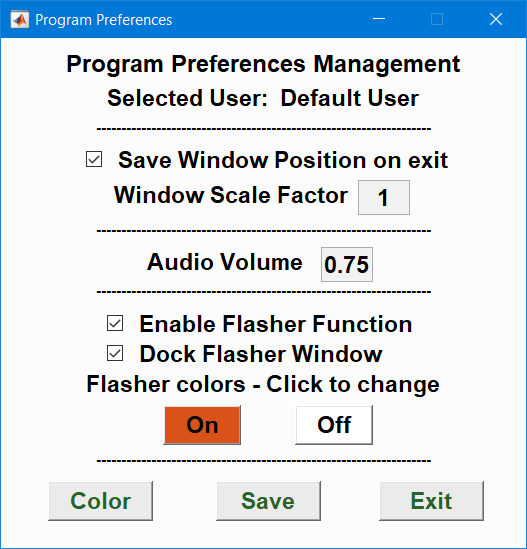
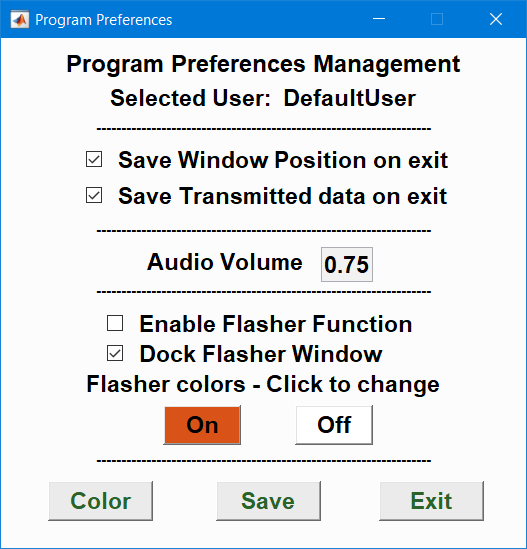
Updated help with latest program changes

Changed region(s): [[0.1822, 0.1548, 0.7894, 0.2168], [0.1518, 0.3406, 0.8501, 0.3716]]

diff --git a/MorseHelp/MorseHelp.html b/MorseHelp/MorseHelp.html
@@ -174,7 +174,10 @@
             </p>
         <ul>
             <li>
-                Windows - There is a checkbox to select 'Save Window Position on Exit'. The default is checked. Once you like the position of windows and have saved those windows, then those windows will reopen at that position. If desired, after windows are positioned to your liking, the box can be unchecked to prevent further changes. The 'Scale Factor' is set to 1 by default. It is currently not used.
+                Windows - There is a checkbox to select 'Save Window Position on Exit'. The default is checked. Once you like the position of windows and have saved those windows, then those windows will reopen at that position. If desired, after windows are positioned to your liking, the box can be unchecked to prevent further changes.
+            </li>
+            <li>
+                Transmitted Data - There is a checkbox to select 'Save Transmitted Data on Exit'. The default is checked. Yhis allows the user to save a copy of the transmitted data in a text file. The file is saved in the users data directory when ever the user closes either the Transmit Alphabet or Transmit keyboard window. This allows the yser to compare the code copied with the code transmitted.
             </li>
             <li>
                 Audio - The volume of the audio output sent to the standard output can be set from 0 (mute) to 1 (maximum).
@@ -357,10 +360,6 @@
             </li>
             
             <li>
-                <em>FlasherPreferences.m:</em> This function allows the user to select the preferences for the Flasher function.
-            </li>
-            
-            <li>
                 <em>FlasherTask.m:</em> This function controls the Flasher function and controls the display in the Flasher Window.
             </li>
             
@@ -384,6 +383,11 @@
                 <em>Morse.m:</em> This is the main program and should be run to start the application. When first run it initializes all necessaty files and opens the main window. There the user can modify or add users and select the mode of operation.
             </li>
 
+                         
+            <li>
+                <em>ProgramPreferences.m:</em> The ProgramPreferences function is called when the user selects Program Preferences on the main figure menu. The user can customize a number of features of the program from this window.
+            </li>  
+            
             <li>
                 <em>README.md:</em> The READMEme.md information file from the git repository.
             </li>
@@ -415,9 +419,9 @@
             <li>
                 <em>WavePlay.m:</em> This function opens a directory window allowing the user to select a .wav file. If the user selects a file, it is played.
             </li>
-              
+
             <li>
-                <em>WindowPreferences.m:</em> The WindowPreferences function is called when the user selects Window Preferences on the main figure menu. The user can select to save current window positions on exit.This is the default.
+                <em>WindowsColors.m:</em> The WindowsColors function is called when the user selects Colors on the Program Preferences window. The user can customize the colors usen in all of the program windows.
             </li>  
                
         </ul>
